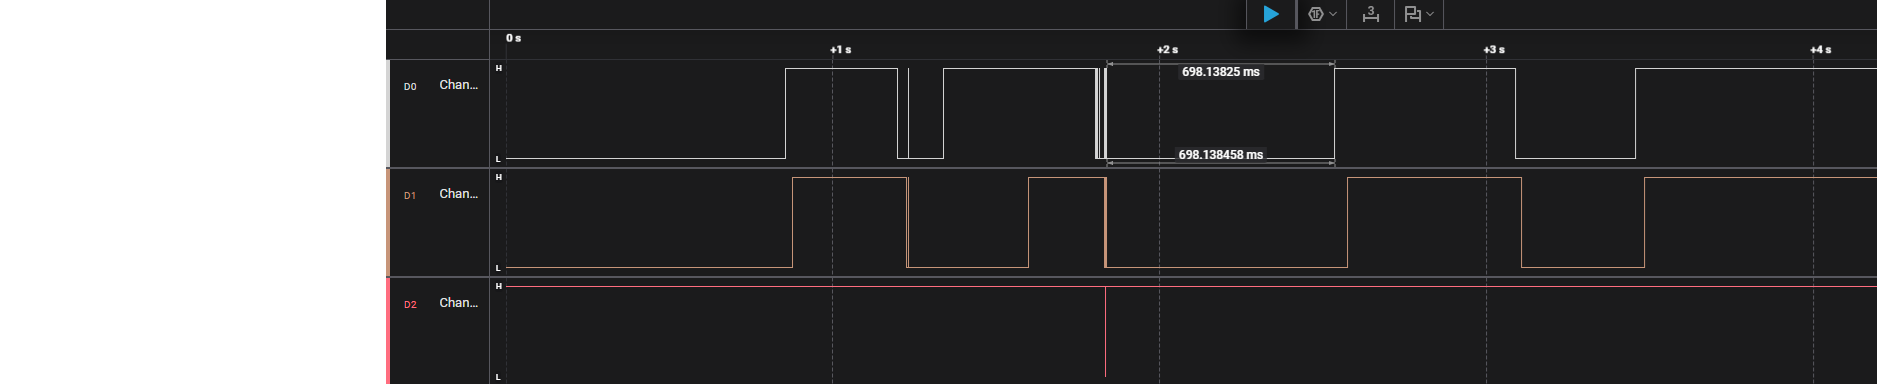
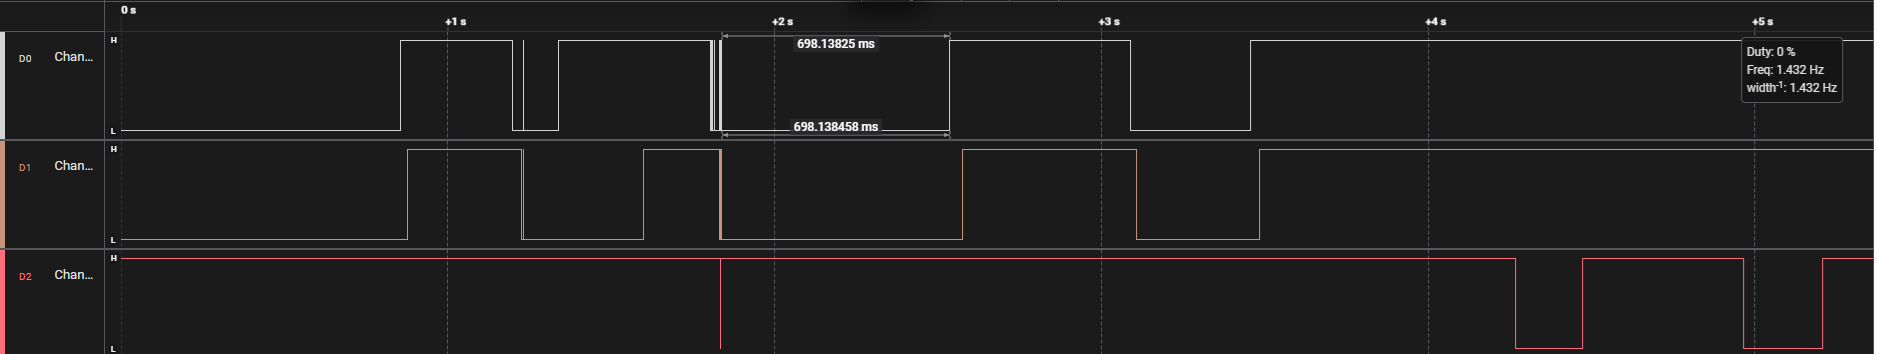
restructuring and updates
collective update

Changed region(s): [[0.0, 0.0, 1.0, 1.0], [0.2472, 0.0, 0.2781, 0.0311]]

diff --git a/README.md b/README.md
@@ -1,5 +1,7 @@
-# BPC-DE2_FM_RX
-This is a project for digital electronics course BPC-DE2 on BUT FEEC, FM radio receiver with digital tuning. The project's goal is to create a functional FM radio receiver tuned by rotary encoder. Outputs consist of audio output routed to headphones and information shown on a OLED display.
+# BPC-DE2_FM_RX
+This is a project for digital electronics course BPC-DE2 on BUT FEEC, FM radio receiver with digital tuning. The project's goal is to create a functional FM radio receiver tuned by rotary encoder. Outputs consist of audio output routed to headphones and information such as frequency and RDS text shown on a OLED display.
+
+FM broadcasts can carry Radio Data System (RDS) data alongside the audio signal. This inaudible digital data can include station information and RadioText, such as the currently playing song or other short messages, which a compatible receiver can decode.
 
 ## Team members:
 - Marek Mička
@@ -9,22 +11,22 @@ This is a project for digital electronics course BPC-DE2 on BUT FEEC, FM radio r
 
 ## Component list:
 
-| Component | Model |
-| ------ | -------------- |
-| Microcontroller | [Raspberry Pi Pico W](https://pip-assets.raspberrypi.com/categories/686-raspberry-pi-pico-w/documents/RP-008312-DS-2-pico-w-datasheet.pdf) |
-| I2C FM radio tuner | [Si4073](https://components101.com/sites/default/files/component_datasheet/Si4703-FM-Radio-Tuner-Datasheet.pdf) |
-| I2C OLED display | [SSD1306](https://cdn-shop.adafruit.com/datasheets/SSD1306.pdf) |
-| Rotary encoder | KY-040 |
+| Component | Model | Purpose |
+| ------ | -------------- | ------- |
+| Microcontroller | [Raspberry Pi Pico W](https://pip-assets.raspberrypi.com/categories/686-raspberry-pi-pico-w/documents/RP-008312-DS-2-pico-w-datasheet.pdf) | Controls the receiver and coordinates its components. |
+| I2C FM radio tuner | [Si4703](https://components101.com/sites/default/files/component_datasheet/Si4703-FM-Radio-Tuner-Datasheet.pdf) | Receives FM stations and provides audio and RDS data. |
+| I2C OLED display | [SH1106](https://www.displayfuture.com/Display/datasheet/controller/SH1106.pdf) | Displays station and other receiver information. |
+| Rotary encoder | [KY-040](https://components101.com/sites/default/files/component_datasheet/KY-04-Rotary-Encoder-Datasheet.pdf) | Lets the user tune the radio. |
 
 ## Pinout schematic
 
-![Pinout schematic](visualization-graphics/pinout-schematic.png)
+![Pinout schematic](visualization-graphics/pinout_schematic.png)
 
 *Certain parts of pinout schematic such as GPIO connections may be subject to change*
 
 ## Block diagram
 
-![Block diagram](visualization-graphics/block_diagram_fixed.jpg)
+![Block diagram](visualization-graphics/block_diagram.png)
 
 *Block diagram may be subject to change*
 
@@ -49,6 +51,16 @@ Component verification, git updates
 | Pavel Trojan | OLED display module verification |
 | Alexandr Stoljar | Rotary encoder module verification |
 
+### Week 3
+Prototyppe creation, integration into main, git updates
+
+| Person | Responsibility |
+| ------ | -------------- |
+| Marek Mička | Setting up prototype, git updates, documentation |
+| Šimon Tokarčík | Setting up prototype, git updates, documentation |
+| Pavel Trojan | Adressing mistakes, git updates, documentation |
+| Alexandr Stoljar | git updates, documentation |
+
 ## Git structure
 Currently proposed repository structure:
 
@@ -62,15 +74,18 @@ Currently proposed repository structure:
 | ------ | -------------- |
 | Rotary Encoder | Interrupt at event |
 | FM Module | Response to event of Rotary Encoder |
-| OLED Display | Update once per 50 ms |
+| OLED Display | Forced update once per 100 ms |
+| OLED Display | Flag check for rotary encoder event every 10 ms |
 
 ## Module verification
 ### FM Radio module with Si4703
-To control the FM module use a library found on github.
+To control the FM module use a library found on github by Chi Zhang.
 
 [Link to original repository](https://github.com/bh1rio/micropython-si4703/tree/main?tab=BSD-3-Clause-1-ov-file)
 
 In order to correctly initialize out module, original code had to be modified. Instead of passing I2C object to the constructor of Radio class, we pass I2C SDA and SCL pins to it. Then during radio initialization SDA pin needs to be held low while reset pin is taken high, so that the module initializes in 2-wire I2C mode. After that I2C communication is initialized.
+
+*After further development, issues with the passing of I2C object were resolved and the code was restored to its original version.*
 
 #### Console output of FM module verification code
 ![Console output_fm](component-verification/radio_Si4703/console_output.png)
@@ -89,7 +104,8 @@ Turning of the rotary encoder was successfully tested using libraries [rotary.py
 
 #### Output of logic analyzer
 *The signals from DT and CLK output pins have a phase delay that depends on the direction the encoder is turned. Channel 00 is CLK signal, 01 is DT signal and 02 switch.*
-![Logic_analyzer](component-verification/rotary-encoder/encoder_analyzer_output3.png)
+![Logic_analyzer](component-verification/rotary-encoder/encoder_analyzer_output.png)
+![Logic_analyzer2](component-verification/rotary-encoder/encoder_analyzer_output2.png)
 
 ### OLED Display
 OLED display was verified using [modified code](component-verification/oled-display/oled.py) originally from [BPC-DE2 course](https://gitlab.fekt.vut.cz/fryza/micropython-course-labs).
@@ -97,8 +113,20 @@ OLED display was verified using [modified code](component-verification/oled-disp
 #### Picture of verified OLED display
 ![Picture of OLED](component-verification/oled-display/oled_proof.jpg)
 
-## Readme - required contents (TO DO list)
+## TO DO list - required contents
 - Problem statement and summary of the solution.
 - Setup and operating instructions, including required MicroPython modules.
 - Hardware inventory and any assumptions or limitations.
 - Links to the poster and demonstration video.
+
+## References
+- [Raspberry Pi Pico W datasheet](https://pip-assets.raspberrypi.com/categories/686-raspberry-pi-pico-w/documents/RP-008312-DS-2-pico-w-datasheet.pdf)
+- [Si4703 FM radio tuner datasheet](https://components101.com/sites/default/files/component_datasheet/Si4703-FM-Radio-Tuner-Datasheet.pdf)
+- [SH1106 datasheet](https://www.displayfuture.com/Display/datasheet/controller/SH1106.pdf)
+- [KY-040 datasheet](https://components101.com/sites/default/files/component_datasheet/KY-04-Rotary-Encoder-Datasheet.pdf)
+
+- [MicroPython Si4703 library by Chi Zhang](https://github.com/bh1rio/micropython-si4703/tree/main)
+- [MicroPython rotary encoder library by Mike Teachman](https://github.com/miketeachman/micropython-rotary/tree/master)
+- [MicroPython basic GPIO devices library by Tomáš Frýza](https://gitlab.fekt.vut.cz/fryza/micropython-course-labs/-/blob/main/examples/_modules/gpio_devices.py)
+
+
